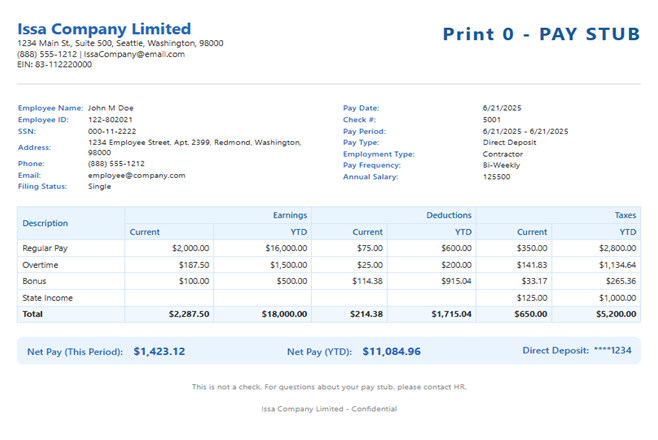
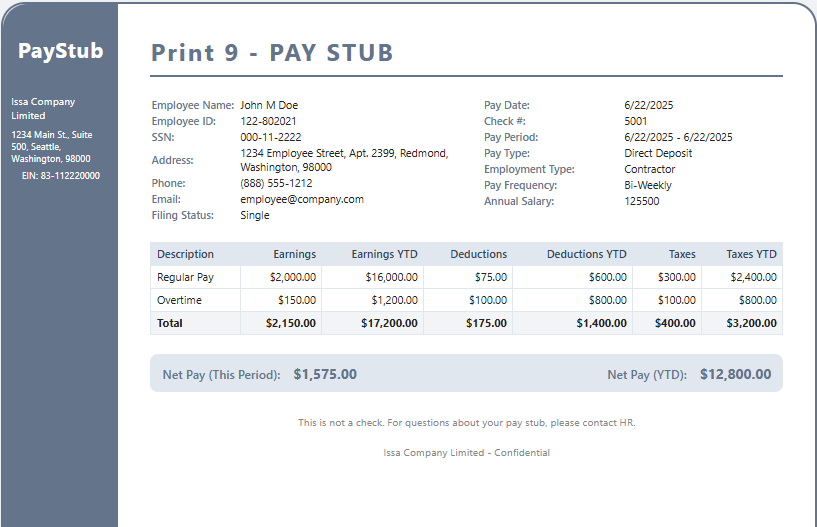
feat: add new styles for tabs and images to enhance UI and improve accessibility

diff --git a/src/index.css b/src/index.css
@@ -608,3 +608,85 @@ ul { list-style: none; margin: 0.5rem 0 1.5rem 1.5rem; }
 .footer-link-privacy:focus::after {
   width: 100%;
 }
+
+.overlay {
+  position: absolute;
+  width: 100%;
+  height: 100%;
+  background-color: rgba(0, 0, 0, 0.5);
+}
+
+.img-hero {
+  width: 100%;
+  height: 100%;
+  object-fit: cover;
+}
+
+.tab-bg-img {
+  background-image: repeating-linear-gradient(
+    to bottom,
+    #eff1ef 0px,
+    #eff1ef 4px,
+    white 4px,
+    white 8px
+  ) !important;
+}
+
+
+.tab-container-relative {
+  position: relative;
+}
+
+.row-relative {
+  position: absolute;
+  bottom: 30px;
+}
+
+
+/* this style apply to the Tabs/Tab Controls, it will make the disabled tabs gray and active tab green */
+.nav-tabs .nav-link.active {
+  background-color: rgb(19, 172, 39);
+  color: white;
+}
+
+/* this style apply to the Tabs/Tab Controls, it will make the disabled tabs gray and active tab green */
+.nav-tabs .nav-link.disabled {
+  background-color: rgba(0, 0, 0, 0.281);
+  color: rgba(49, 47, 47, 0.342);
+}
+
+
+.nav-tabs {
+  border-bottom: 1.5px solid #2b5081 !important;
+  background: transparent;
+  border-radius: 12px 12px 0 0;
+  margin-bottom: 0.25rem;
+}
+
+.nav-tabs .nav-link {
+  border: none !important;
+  border-radius: 10px 10px 0 0 !important;
+  background: #eaf6ff;
+  color: #2a7ae2;
+  margin-right: 0.3rem;
+  font-weight: 600;
+  font-size: 1.08rem;
+  transition: background 0.18s, color 0.18s;
+  padding: 0.7rem 1.5rem;
+  white-space: nowrap;
+}
+
+.nav-tabs .nav-link.active,
+.nav-tabs .nav-link:focus {
+  background: #2a7ae2 !important;
+  color: #fff !important;
+  box-shadow: 0 2px 8px rgba(42, 122, 226, 0.10);
+}
+
+.nav-tabs .nav-link.disabled {
+  background: #f0f4f8 !important;
+  color: #b0b8c1 !important;
+  cursor: not-allowed;
+  opacity: 0.7;
+}
+
